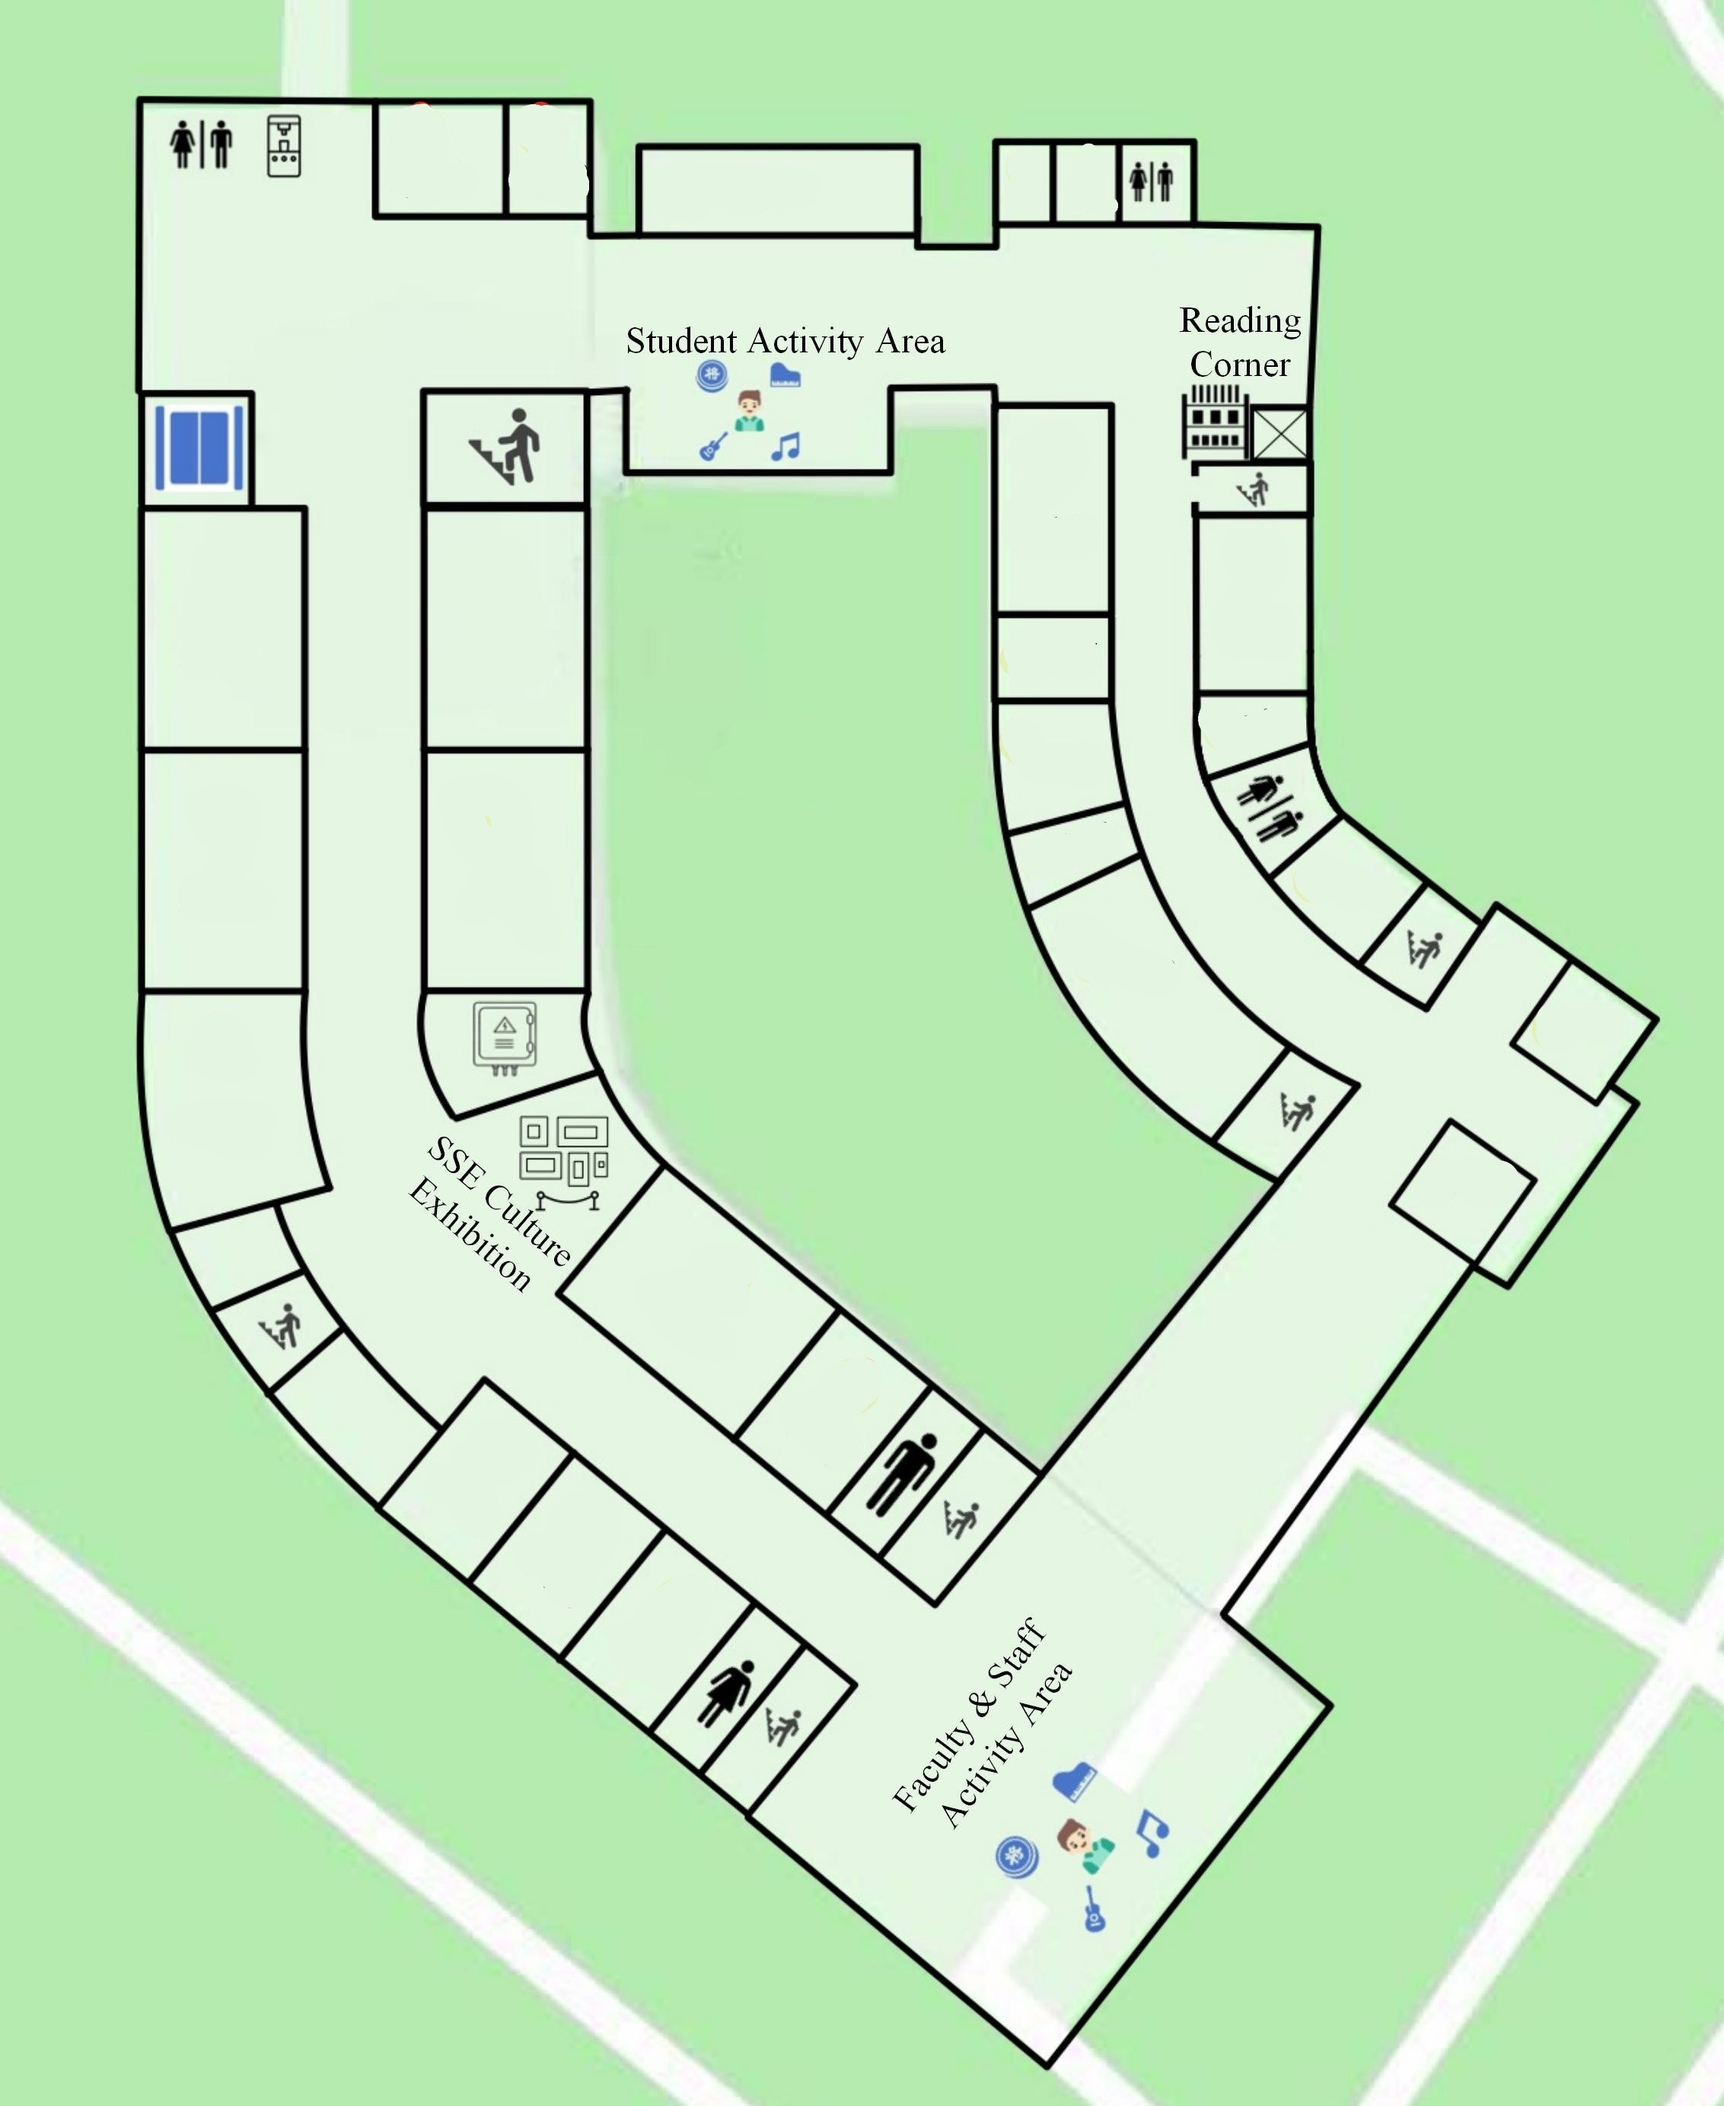
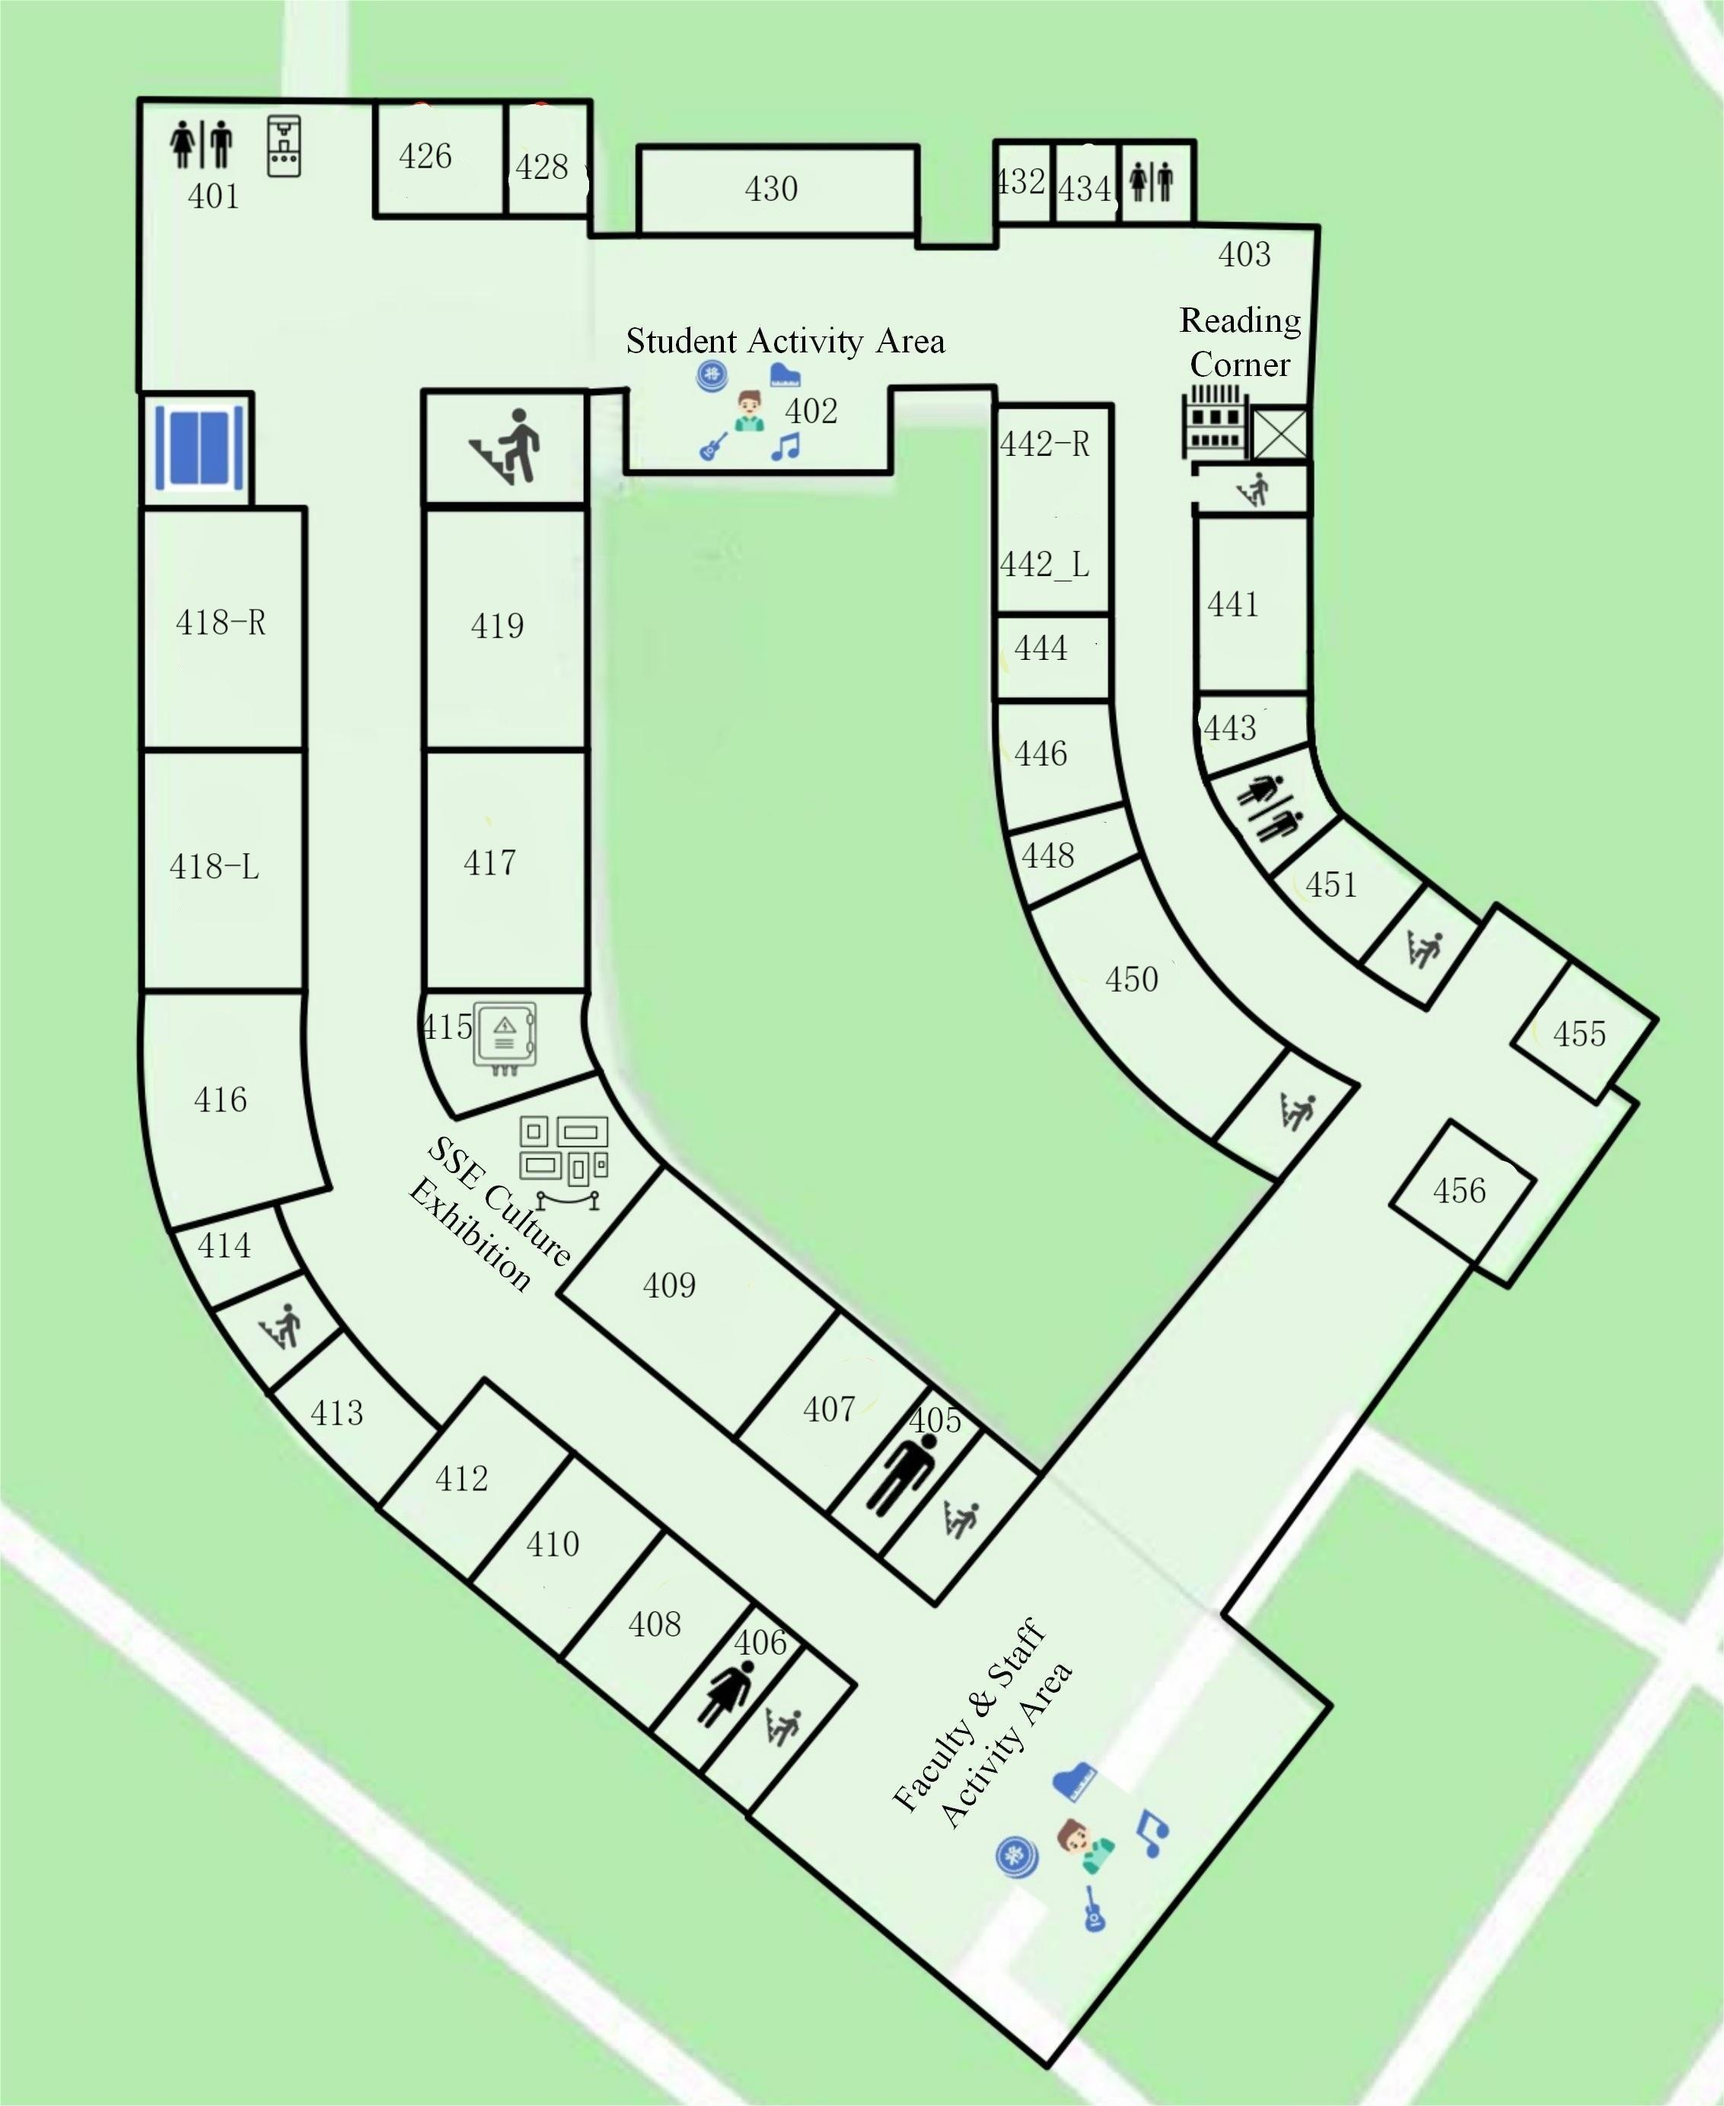
优化地图视图和侧边栏组件，增加房间旋转属性，完成部分房间信息

diff --git a/vue/jishi_building_navi/src/rooms.ts b/vue/jishi_building_navi/src/rooms.ts
@@ -9,6 +9,7 @@ export interface Room {
     y: number;
     width: number;
     height: number;
+    rotate?: number; // 新增旋转角度属性（单位：度）
   }
   
   export const rooms: Room[] = [
@@ -19,8 +20,163 @@ export interface Room {
       responsible: "负责人",
       teachers: ["老师1", "老师2"],
       image: "/images/400.jpg",
-      x: 15, y: 20,
-      width: 10, height: 12
+      x: 0, y: 0,
+      width: 0, height: 0,
+      rotate: 0
+    },
+    {
+      id: "420",
+      name: "420-电梯间",
+      function: "直梯",
+      responsible: "未知",
+      teachers: [],
+      image: "/images/420.jpg",
+      x: 8, y: 19,
+      width: 7, height: 5,
+      rotate: 0
+    },
+    {
+      id: "0",
+      name: "楼梯间",
+      function: "楼梯",
+      responsible: "未知",
+      teachers: [],
+      image: "/images/0.jpg",
+      x: 25, y: 19,
+      width: 9, height: 5,
+      rotate: 0
+    },
+    {
+      id: "418",
+      name: "418-R",
+      function: "研究生工作站",
+      responsible: "陈梁：69589847",
+      teachers: ["尹长青（安全负责人）：18901892339", "陈韩悦（安全员）：69589847"],
+      image: "/images/418-R.jpg",
+      x: 8, y: 24,
+      width: 10, height: 12,
+      rotate: 0
+    },
+    {
+      id: "418",
+      name: "418-L",
+      function: "研究生工作站",
+      responsible: "陈梁：69589847",
+      teachers: ["尹长青（安全负责人）：18901892339", "陈韩悦（安全员）：69589847"],
+      image: "/images/418-L.jpg",
+      x: 8, y: 36,
+      width: 10, height: 11,
+      rotate: 0
+    },
+    {
+      id: "419",
+      name: "419",
+      function: "软件技术研究中心",
+      responsible: "未知",
+      teachers: [],
+      image: "/images/419.jpg",
+      x: 25, y: 24,
+      width: 9, height: 12,
+      rotate: 0
+    },
+    {
+      id: "417",
+      name: "417",
+      function: "会议室",
+      responsible: "未知",
+      teachers: [],
+      image: "/images/419.jpg",
+      x: 25, y: 36,
+      width: 9, height: 11,
+      rotate: 0
+    },
+    {
+      id: "416",
+      name: "416",
+      function: "教育部工程研究中心实验室",
+      responsible: "负责人1",
+      teachers: ["老师1", "老师2"],
+      image: "/images/416.jpg",
+      x: 9, y: 47,
+      width: 9, height: 11,
+      rotate: -10
+    },
+    {
+      id: "415",
+      name: "415",
+      function: "消防间",
+      responsible: "未知",
+      teachers: [],
+      image: "/images/415.jpg",
+      x: 25, y: 47,
+      width: 9, height: 5,
+      rotate: -10
+    },
+    {
+      id: "414",
+      name: "414",
+      function: "未知",
+      responsible: "未知",
+      teachers: [],
+      image: "/images/414.jpg",
+      x: 10.5, y: 57.5,
+      width: 6.5, height: 4,
+      rotate: -22
+    },
+    {
+      id: "1",
+      name: "楼梯间",
+      function: "楼梯",
+      responsible: "无",
+      teachers: [],
+      image: "/images/1.jpg",
+      x: 13, y: 61,
+      width: 6.5, height: 4,
+      rotate: -28
+    },
+    {
+      id: "413",
+      name: "413",
+      function: "未知",
+      responsible: "无",
+      teachers: [],
+      image: "/images/413.jpg",
+      x: 18, y: 63.5,
+      width: 6, height: 7,
+      rotate: -45
+    },
+    {
+      id: "411",
+      name: "411",
+      function: "文化展览区",
+      responsible: "无",
+      teachers: [],
+      image: "/images/411.jpg",
+      x: 28, y: 53,
+      width: 8, height: 6,
+      rotate: -35
+    },
+    {
+      id: "409",
+      name: "409",
+      function: "研究生工作室",
+      responsible: "1",
+      teachers: ["2", "3"],
+      image: "/images/409.jpg",
+      x: 36, y: 56.5,
+      width: 10, height: 10.5,
+      rotate: -50
+    },
+    {
+      id: "407",
+      name: "407",
+      function: "未知",
+      responsible: "1",
+      teachers: ["2", "3"],
+      image: "/images/407.jpg",
+      x: 43, y: 64.5,
+      width: 10, height: 5.5,
+      rotate: -51
     },
     // 房间数据...
   ];

diff --git a/vue/jishi_building_navi/src/components/MapView.vue b/vue/jishi_building_navi/src/components/MapView.vue
@@ -2,8 +2,11 @@
   <div class="map-container">
     <div class="map-wrapper">
       <img :src="mapImage" class="map-image" ref="mapEl" />
-      <div v-for="room in rooms" :key="room.id" class="room-area" :style="getRoomStyle(room)"
-        @mouseover="setCurrentRoom(room)"></div>
+      <div 
+        v-for="room in rooms" :key="room.id" 
+        class="room-area" :style="getRoomStyle(room)"
+        @mouseover="setCurrentRoom(room)">
+      </div>
     </div>
   </div>
 </template>
@@ -23,6 +26,7 @@ const getRoomStyle = (room) => ({
   top: `${room.y}%`,
   width: `${room.width}%`,
   height: `${room.height}%`,
+  transform: `rotate(${room.rotate ?? 0}deg)`
 });
 
 const setCurrentRoom = (room) => {
@@ -32,16 +36,25 @@ const setCurrentRoom = (room) => {
 
 <style scoped>
 .map-container {
-  flex: 1;
+  /* 按比例缩放容器 */
+  width: 70vw;          /* 占视口宽度的70% */
+  overflow: auto;        /* 滚动条 */ 
   position: relative;
-  height: 100%;
-  overflow: hidden;
+  background: #f0f0f0;
+}
+
+/* 父容器相对定位，子元素才能用绝对定位 */
+.map-wrapper {
+  position: relative;
+  display: inline-block; /* 包裹图片的原始大小 */
 }
 
 .map-image {
-  width: 100%;
-  height: 100%;
-  object-fit: cover;
+  width: 100%;          /* 图片宽度自适应容器 */
+  height: auto;         /* 高度自适应 */
+  display: block;
+  height: auto;
+  object-fit: contain;   /* 完整显示地图 */
 }
 
 .room-area {
@@ -53,5 +66,17 @@ const setCurrentRoom = (room) => {
 
 .room-area:hover {
   background: rgba(66, 185, 130, 0.5);
+}
+
+/* 自定义滚动条样式 */
+.map-container::-webkit-scrollbar {
+  width: 10px;
+  height: 10px;
+  background: rgba(0,0,0,0.1);
+}
+
+.map-container::-webkit-scrollbar-thumb {
+  background: #42b983;
+  border-radius: 4px;
 }
 </style>

diff --git a/vue/jishi_building_navi/src/components/Sidebar.vue b/vue/jishi_building_navi/src/components/Sidebar.vue
@@ -2,7 +2,6 @@
     <div class="sidebar">
       <div v-if="currentRoom" class="room-info">
         <h2>{{ currentRoom.name }}</h2>
-        <img :src="currentRoom.image" class="room-image" />
         <p>功能：{{ currentRoom.function }}</p>
         <p v-if="currentRoom.responsible">负责人：{{ currentRoom.responsible }}</p>
         <div v-if="currentRoom.teachers">
@@ -13,6 +12,7 @@
             </li>
           </ul>
         </div>
+        <img :src="currentRoom.image" class="room-image" />
       </div>
       <div v-else class="placeholder">
         鼠标悬停在地图房间上查看信息
@@ -30,7 +30,8 @@
   
   <style scoped>
   .sidebar {
-    width: 500px;
+    width: 300px;
+    height: 100%;
     padding: 1rem;
     background: #f8f9fa;
     border-left: 1px solid #ddd;

diff --git a/vue/jishi_building_navi/src/views/HomeView.vue b/vue/jishi_building_navi/src/views/HomeView.vue
@@ -30,6 +30,10 @@ const currentRoom = ref(null);
   display: flex;
   flex: 1;
   min-height: 0; /* 修复 flex 容器溢出问题 */
-  overflow: hidden;
+  height: calc(100vh - 60px); /* 减去导航栏高度 */
+  .sidebar {
+    width: 300px;
+    flex-shrink: 0;
+  }
 }
 </style>
